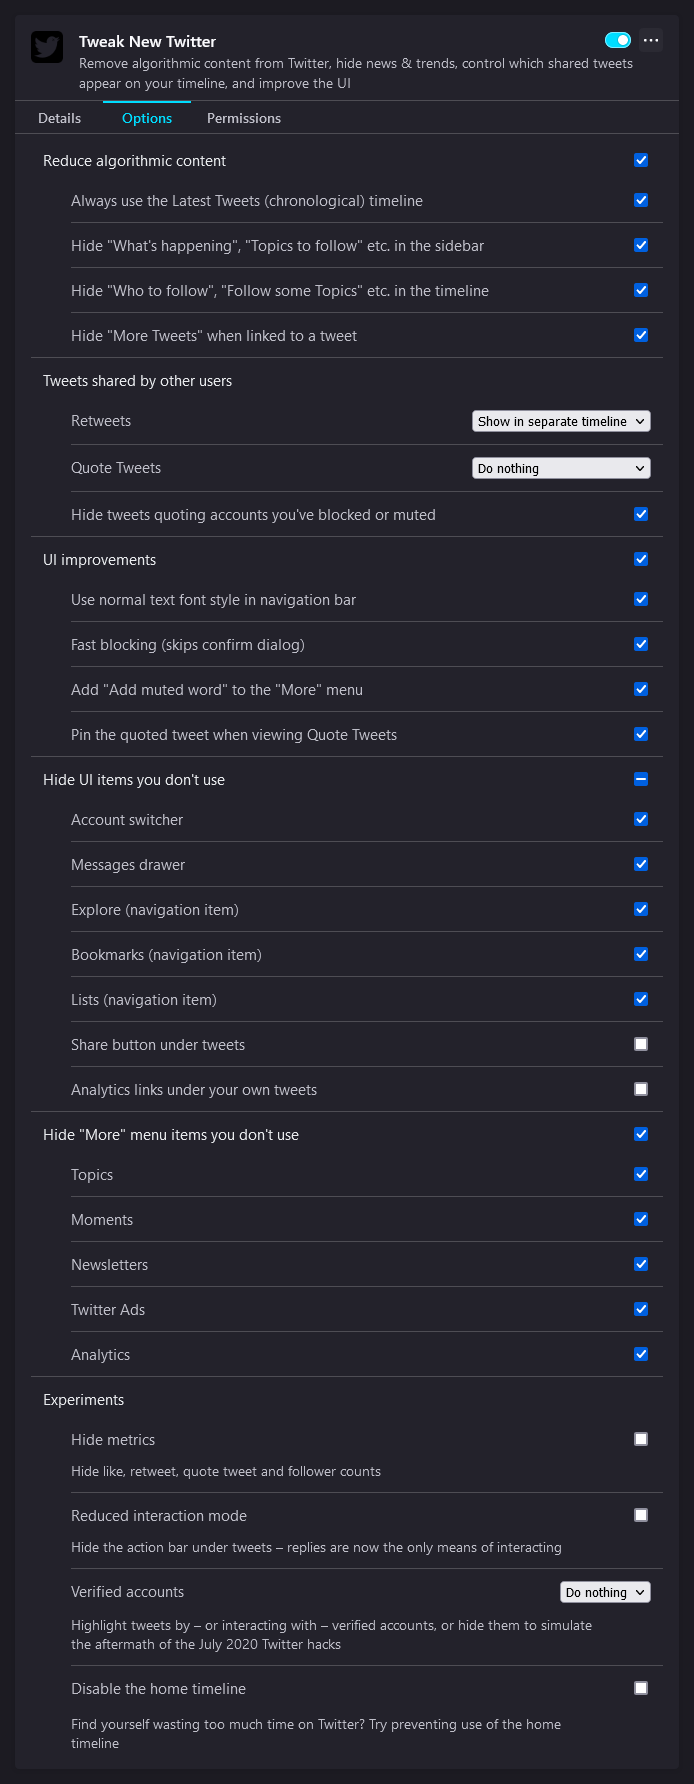
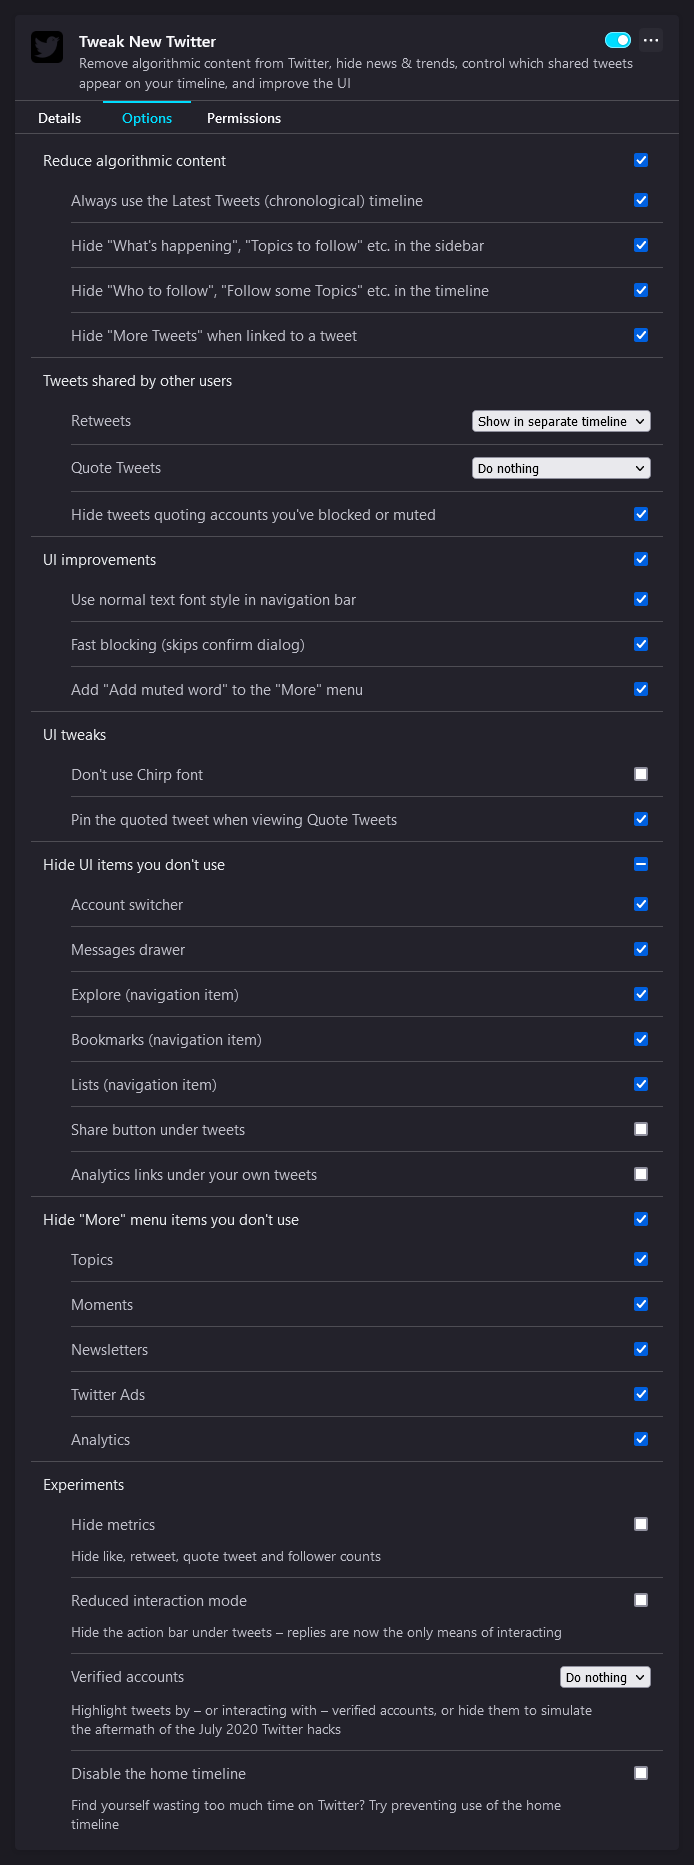
Add a new "Don't use Chirp font" feature Add a new "UI tweaks" section to the options page and move "Pin the quoted tweet when viewing Quote Tweets" to it as well
Closes #56

diff --git a/tweak-new-twitter.user.js b/tweak-new-twitter.user.js
@@ -26,6 +26,7 @@ const config = {
   // Shared
   addAddMutedWordMenuItem: true,
   alwaysUseLatestTweets: true,
+  dontUseChirpFont: false,
   fastBlock: true,
   hideAnalyticsNav: true,
   hideBookmarksNav: true,
@@ -1459,6 +1460,63 @@ function configureHideMetricsCss(cssRules, hideCssSelectors) {
   }
 }
 
+const configureFont = (() => {
+  /** @type {CSSStyleRule[]} */
+  let fontFamilyRules = []
+  // Don't keep checking the stylesheet forever if someone doesn't have the new
+  // font yet, or if Twitter ever change the name or remove it.
+  let attempts = 0
+
+  function findFontFamilyRules() {
+    let $style = /** @type {HTMLStyleElement} */ (document.querySelector('style#react-native-stylesheet'))
+    if (!$style) {
+      log('<style id="react-native-stylesheet"> not found to configure use of Chirp font')
+      return
+    }
+
+    for (let rule of $style.sheet.cssRules) {
+      if (rule instanceof CSSStyleRule && rule.style.fontFamily && rule.style.fontFamily.startsWith('"TwitterChirp"')) {
+        fontFamilyRules.push(rule)
+      }
+    }
+
+    if (fontFamilyRules.length > 0) {
+      log(`found Chirp fontFamily CSS rule${s(fontFamilyRules.length)}`, fontFamilyRules)
+      applyFontPreference()
+    } else {
+      if (attempts < 10) {
+        log('waiting for Chirp fontFamily CSS rule')
+        attempts++
+        setTimeout(findFontFamilyRules, 100)
+      } else {
+        log(`stopped waiting for Chirp fontFamily CSS rule after ${attempts} attempts`)
+      }
+    }
+  }
+
+  function applyFontPreference() {
+    fontFamilyRules.forEach((rule) => {
+      if (config.dontUseChirpFont) {
+        if (rule.style.fontFamily.includes('TwitterChirp')) {
+          rule.style.fontFamily = rule.style.fontFamily.replace('"TwitterChirp", ', '')
+          log('disabled Chirp font')
+        }
+      } else if (!rule.style.fontFamily.includes('TwitterChirp')) {
+        rule.style.fontFamily = `"TwitterChirp", ${rule.style.fontFamily}`
+        log(`enabled Chirp font`)
+      }
+    })
+  }
+
+  return function configureFont() {
+    if (fontFamilyRules.length > 0) {
+      applyFontPreference()
+    } else {
+      findFontFamilyRules()
+    }
+  }
+})()
+
 /**
  * Configures – or re-configures – the separated tweets timeline title.
  *
@@ -2103,6 +2161,7 @@ function main() {
 
   configureSeparatedTweetsTimelineTitle()
   configureCss()
+  configureFont()
   observeFontSize()
   observeBackgroundColor()
   observeColor()
@@ -2115,6 +2174,7 @@ function configChanged(changes) {
   log('config changed', changes)
 
   configureCss()
+  configureFont()
   configureThemeCss()
   observeFontSize()
   observePopups()

diff --git a/options.html b/options.html
@@ -131,17 +131,28 @@
           <input type="checkbox" name="addAddMutedWordMenuItem">
         </label>
       </section>
+      <section class="checkbox mobile">
+        <label>
+          Hide "Open app", "Switch to the app" etc. nags
+          <input type="checkbox" name="hideAppNags">
+        </label>
+      </section>
+    </section>
+    <section class="group">
+      <label>
+        UI tweaks
+      </label>
+      <section class="checkbox">
+        <label>
+          Don't use Chirp font
+          <input type="checkbox" name="dontUseChirpFont">
+        </label>
+      </section>
       <section class="checkbox">
         <label>
           <span class="desktop">Pin the quoted tweet when viewing Quote Tweets</span>
           <span class="mobile">Hide the quoted tweet when viewing Quote Tweets</span>
           <input type="checkbox" name="tweakQuoteTweetsPage">
-        </label>
-      </section>
-      <section class="checkbox mobile">
-        <label>
-          Hide "Open app", "Switch to the app" etc. nags
-          <input type="checkbox" name="hideAppNags">
         </label>
       </section>
     </section>

diff --git a/options.js b/options.js
@@ -16,7 +16,6 @@ const checkboxGroups = new Map(Object.entries({
   uiImprovements: [
     'addAddMutedWordMenuItem',
     'fastBlock',
-    'tweakQuoteTweetsPage',
     desktop && 'navBaseFontSize',
     mobile && 'hideAppNags',
   ].filter(Boolean),
@@ -54,6 +53,7 @@ const defaultConfig = {
   // Shared
   addAddMutedWordMenuItem: true,
   alwaysUseLatestTweets: true,
+  dontUseChirpFont: false,
   fastBlock: true,
   hideAnalyticsNav: true,
   hideBookmarksNav: true,

diff --git a/types.d.ts b/types.d.ts
@@ -4,6 +4,7 @@ export type Config = {
   // Shared
   addAddMutedWordMenuItem: boolean
   alwaysUseLatestTweets: boolean
+  dontUseChirpFont: boolean
   fastBlock: boolean
   hideAnalyticsNav: boolean
   hideBookmarksNav: boolean

diff --git a/README.md b/README.md
@@ -54,6 +54,7 @@ If you open [mobile.twitter.com](https://mobile.twitter.com) and use the "Instal
 
 ### UI improvements
 
+- Disable use of the Chirp font if you don't like it
 - Use the site's normal text font style in the primary navigation menu on desktop to make it less distracting
 - Fast blocking - skips the confirm dialog when you try to block an account
 - Add a new item to the "More" menu (desktop) or slide-out menu (mobile) which takes you straight to the "Add muted word" page
